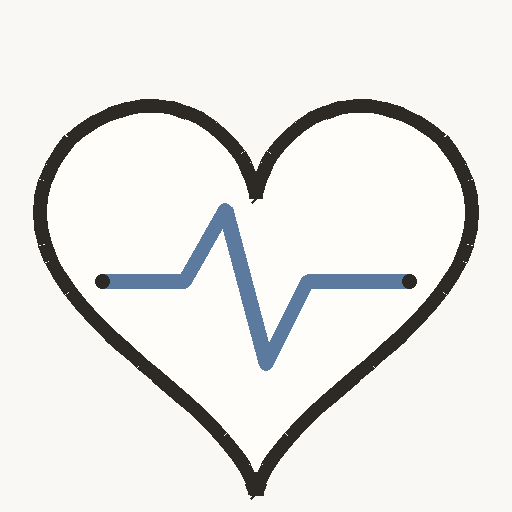
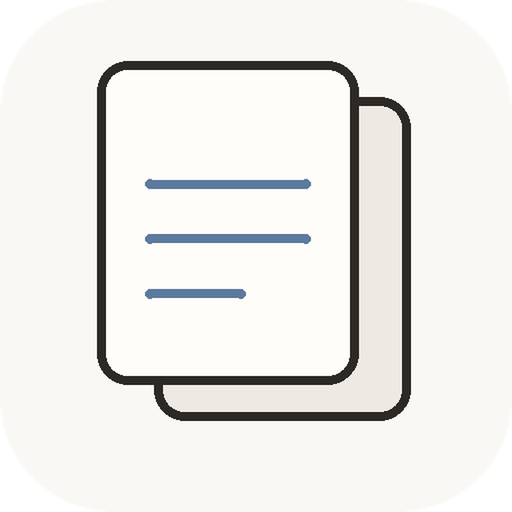
Add files via upload

Changed region(s): [[0.0625, 0.0938, 0.9375, 0.9688]]

diff --git a/app.js b/app.js
@@ -51,7 +51,7 @@ const T = {
     saveError: 'Не вдалося зберегти. Перевір інтернет-з’єднання',
     confirmTitle: 'Видалити запис?', confirmSub: 'Цю дію не можна скасувати.',
     cancelBtn: 'Скасувати', deleteBtn: 'Видалити',
-    settingsTitle: 'Налаштування', fullscreenLabel: 'Повний екран', langLabel: 'Мова', currencyLabel: 'Валюта', categoriesTitle: 'Категорії',
+    settingsTitle: 'Налаштування', langLabel: 'Мова', currencyLabel: 'Валюта', categoriesTitle: 'Категорії',
     expenseCatManageLabel: 'Категорії витрат', incomeCatManageLabel: 'Категорії доходів',
     newCatPlaceholder: 'Нова категорія', addCatAria: 'Додати категорію', deleteCatAria: 'Видалити категорію',
     catLastError: 'Має залишитися хоча б одна категорія',
@@ -100,7 +100,7 @@ const T = {
     saveError: 'Не удалось сохранить. Проверь интернет-соединение',
     confirmTitle: 'Удалить запись?', confirmSub: 'Это действие нельзя отменить.',
     cancelBtn: 'Отмена', deleteBtn: 'Удалить',
-    settingsTitle: 'Настройки', fullscreenLabel: 'Полный экран', langLabel: 'Язык', currencyLabel: 'Валюта', categoriesTitle: 'Категории',
+    settingsTitle: 'Настройки', langLabel: 'Язык', currencyLabel: 'Валюта', categoriesTitle: 'Категории',
     expenseCatManageLabel: 'Категории расходов', incomeCatManageLabel: 'Категории доходов',
     newCatPlaceholder: 'Новая категория', addCatAria: 'Добавить категорию', deleteCatAria: 'Удалить категорию',
     catLastError: 'Должна остаться хотя бы одна категория',
@@ -149,7 +149,7 @@ const T = {
     saveError: 'Nie udało się zapisać. Sprawdź połączenie z internetem',
     confirmTitle: 'Usunąć wpis?', confirmSub: 'Tej czynności nie można cofnąć.',
     cancelBtn: 'Anuluj', deleteBtn: 'Usuń',
-    settingsTitle: 'Ustawienia', fullscreenLabel: 'Pełny ekran', langLabel: 'Język', currencyLabel: 'Waluta', categoriesTitle: 'Kategorie',
+    settingsTitle: 'Ustawienia', langLabel: 'Język', currencyLabel: 'Waluta', categoriesTitle: 'Kategorie',
     expenseCatManageLabel: 'Kategorie wydatków', incomeCatManageLabel: 'Kategorie przychodów',
     newCatPlaceholder: 'Nowa kategoria', addCatAria: 'Dodaj kategorię', deleteCatAria: 'Usuń kategorię',
     catLastError: 'Musi zostać przynajmniej jedna kategoria',
@@ -198,7 +198,7 @@ const T = {
     saveError: 'Could not save. Check your internet connection',
     confirmTitle: 'Delete entry?', confirmSub: 'This action cannot be undone.',
     cancelBtn: 'Cancel', deleteBtn: 'Delete',
-    settingsTitle: 'Settings', fullscreenLabel: 'Fullscreen', langLabel: 'Language', currencyLabel: 'Currency', categoriesTitle: 'Categories',
+    settingsTitle: 'Settings', langLabel: 'Language', currencyLabel: 'Currency', categoriesTitle: 'Categories',
     expenseCatManageLabel: 'Expense categories', incomeCatManageLabel: 'Income categories',
     newCatPlaceholder: 'New category', addCatAria: 'Add category', deleteCatAria: 'Delete category',
     catLastError: 'At least one category must remain',
@@ -339,7 +339,6 @@ function applyStaticTranslations() {
   document.getElementById('expenseLabel').textContent = t('expenseMonthLabel');
   document.getElementById('tabEntries').textContent = t('tabEntries');
   document.getElementById('topbarBrandLabel').textContent = t('appTitle');
-  document.getElementById('fullscreenLabel').textContent = t('fullscreenLabel');
   document.getElementById('settingsMenuLabel').textContent = t('settingsTitle');
   document.getElementById('pageTitleLabel').textContent = t('pageTitleLabel');
   document.getElementById('pageContentLabel').textContent = t('pageContentLabel');
@@ -1044,41 +1043,6 @@ document.getElementById('deletePageBtn').addEventListener('click', () => {
   document.getElementById('confirmTitle').textContent = t('confirmTitlePage');
   document.getElementById('confirmOverlay').classList.add('show');
 });
-
-// ---- Повноекранний режим (тільки ПК, встановлений як застосунок) ----
-const isDesktopPointer = window.matchMedia('(pointer: fine) and (hover: hover)').matches;
-const isStandaloneApp = window.matchMedia('(display-mode: standalone)').matches || window.navigator.standalone === true;
-
-function updateFullscreenBtnVisibility() {
-  const btn = document.getElementById('fullscreenBtn');
-  if (isDesktopPointer && document.fullscreenEnabled) {
-    btn.style.display = 'flex';
-  } else {
-    btn.style.display = 'none';
-  }
-}
-updateFullscreenBtnVisibility();
-
-document.getElementById('fullscreenBtn').addEventListener('click', () => {
-  document.getElementById('appMenuOverlay').classList.remove('show');
-  if (document.fullscreenElement) {
-    document.exitFullscreen().catch(() => {});
-  } else {
-    document.documentElement.requestFullscreen().catch(() => {});
-  }
-});
-
-if (isDesktopPointer && isStandaloneApp && document.fullscreenEnabled) {
-  const autoFullscreenOnce = () => {
-    if (!document.fullscreenElement) {
-      document.documentElement.requestFullscreen().catch(() => {});
-    }
-    document.removeEventListener('click', autoFullscreenOnce);
-    document.removeEventListener('keydown', autoFullscreenOnce);
-  };
-  document.addEventListener('click', autoFullscreenOnce, { once: true });
-  document.addEventListener('keydown', autoFullscreenOnce, { once: true });
-}
 
 // ---- Старт ----
 applyStaticTranslations();

diff --git a/index.html b/index.html
@@ -267,10 +267,6 @@
         <div id="pageTabsList"></div>
       </div>
       <div class="app-menu-divider" id="appMenuDivider"></div>
-      <button class="app-menu-item" id="fullscreenBtn" style="display:none;">
-        <svg width="16" height="16" viewBox="0 0 24 24" fill="none" stroke="currentColor" stroke-width="2" id="fullscreenIcon"><path d="M8 3H5a2 2 0 0 0-2 2v3m18 0V5a2 2 0 0 0-2-2h-3m0 18h3a2 2 0 0 0 2-2v-3M3 16v3a2 2 0 0 0 2 2h3"/></svg>
-        <span id="fullscreenLabel">Повний екран</span>
-      </button>
       <button class="app-menu-item" id="settingsBtn">
         <svg width="16" height="16" viewBox="0 0 24 24" fill="none" stroke="currentColor" stroke-width="2"><circle cx="12" cy="12" r="3"/><path d="M19.4 15a1.65 1.65 0 0 0 .33 1.82l.06.06a2 2 0 1 1-2.83 2.83l-.06-.06a1.65 1.65 0 0 0-1.82-.33 1.65 1.65 0 0 0-1 1.51V21a2 2 0 0 1-4 0v-.09A1.65 1.65 0 0 0 9 19.4a1.65 1.65 0 0 0-1.82.33l-.06.06a2 2 0 1 1-2.83-2.83l.06-.06a1.65 1.65 0 0 0 .33-1.82 1.65 1.65 0 0 0-1.51-1H3a2 2 0 0 1 0-4h.09A1.65 1.65 0 0 0 4.6 9a1.65 1.65 0 0 0-.33-1.82l-.06-.06a2 2 0 1 1 2.83-2.83l.06.06a1.65 1.65 0 0 0 1.82.33H9a1.65 1.65 0 0 0 1-1.51V3a2 2 0 0 1 4 0v.09a1.65 1.65 0 0 0 1 1.51 1.65 1.65 0 0 0 1.82-.33l.06-.06a2 2 0 1 1 2.83 2.83l-.06.06a1.65 1.65 0 0 0-.33 1.82V9a1.65 1.65 0 0 0 1.51 1H21a2 2 0 0 1 0 4h-.09a1.65 1.65 0 0 0-1.51 1z"/></svg>
         <span id="settingsMenuLabel">Налаштування</span>